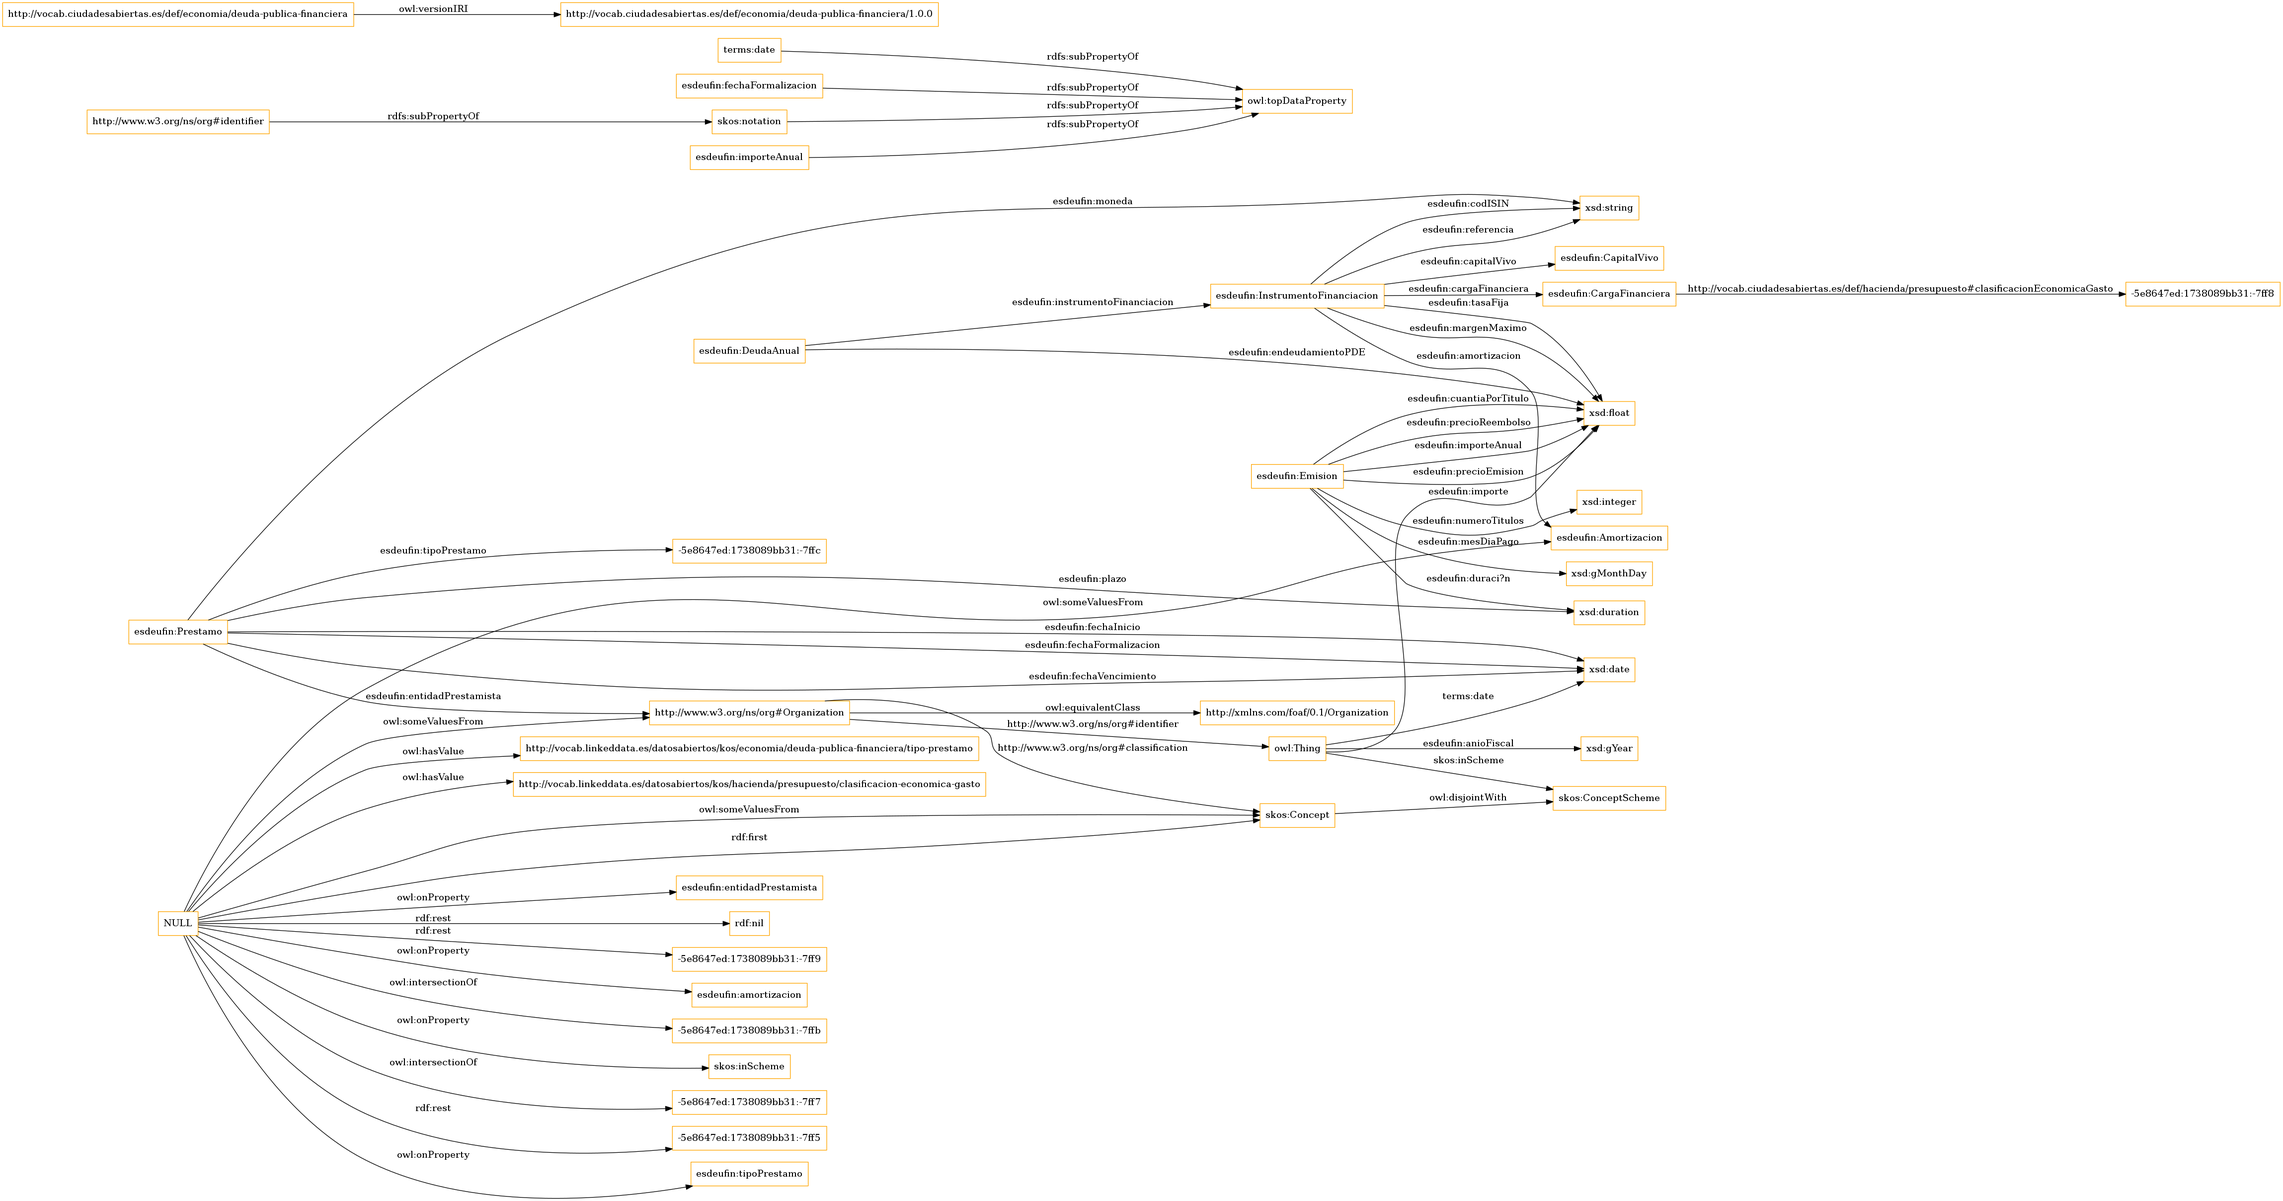
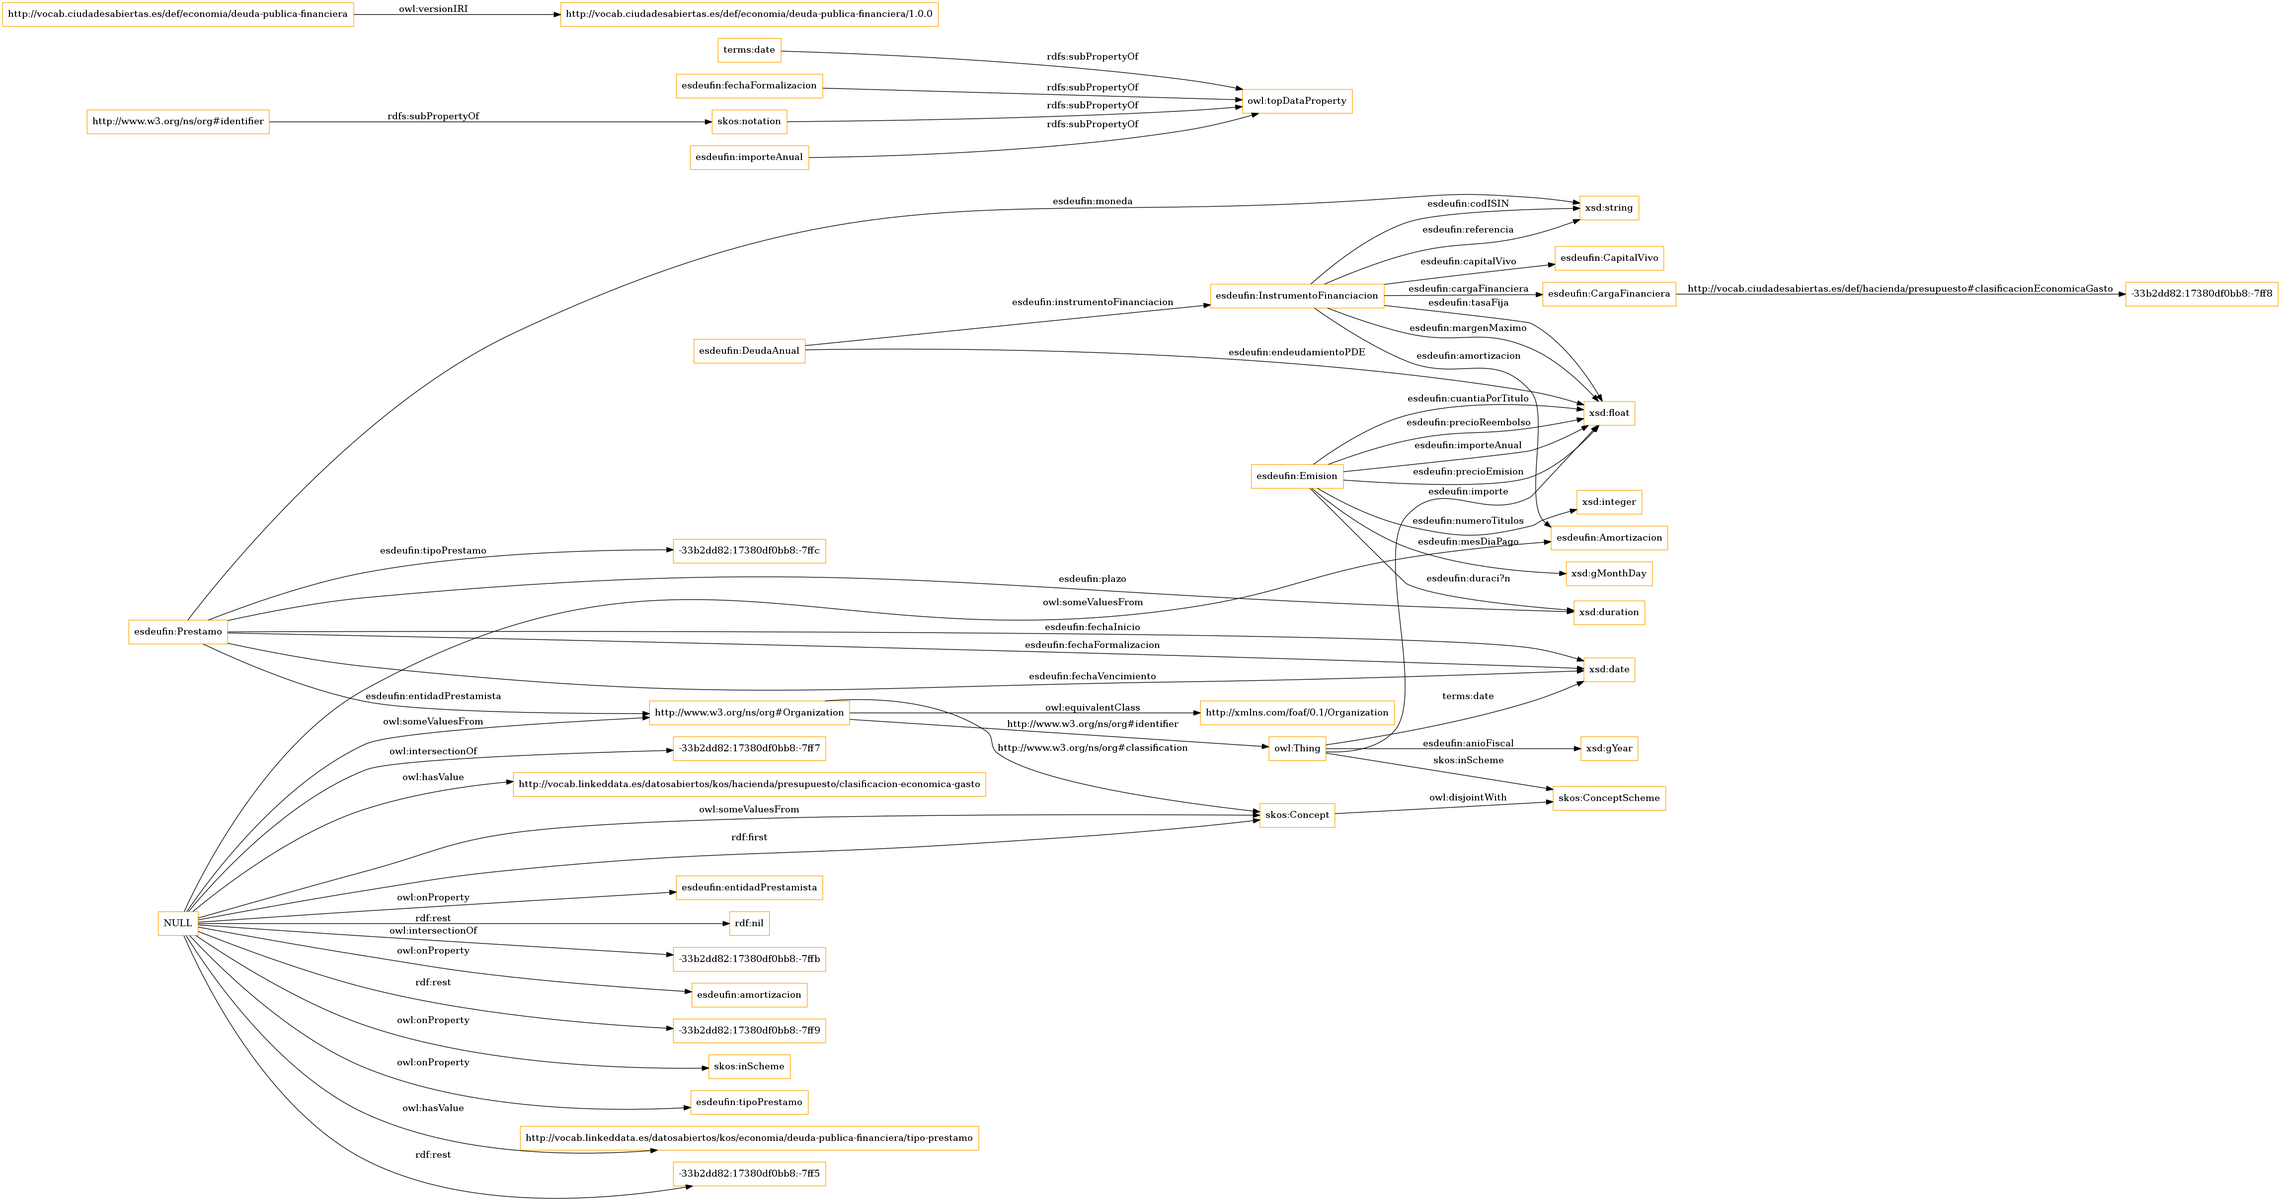
automated change

diff --git a/OnToology/ontology/deudaPublicaFinanciera.owl/documentation/sections/crossref-es.html b/OnToology/ontology/deudaPublicaFinanciera.owl/documentation/sections/crossref-es.html
@@ -1,8 +1,12 @@
-<h2 id="crossreference" class="list">T&eacute;rminos de Vocabulario para la representación de la información de la Deuda Pública Financiera de un ayuntamiento: clases, propiedades y propiedades de datos <span class="backlink"> volver a <a href="#toc">&iacute;ndice</a></span></h2>
+<h2 id="crossreference" class="list">T&eacute;rminos de Vocabulario para la representación de la información de la Deuda Pública Financiera tomando en cuenta que la deuda pública es uno de los indicadores esenciales de las cuentas públicas para entender el estado de la situación económica de un ayuntamiento. para clases, propiedades y propiedades de datos <span class="backlink"> volver a <a href="#toc">&iacute;ndice</a></span></h2>
 Esta secci&oacute;n introduce m&aacute;s detalles sobre cada clase y propiedad definida por Vocabulario para la representación de la información de la Deuda Pública Financiera tomando en cuenta que la deuda pública es uno de los indicadores esenciales de las cuentas públicas para entender el estado de la situación económica de un ayuntamiento..
 <div id="classes">
    <h3 id="classes-headline" class="list">Clases</h3>
    <ul class="hlist">
+      <li>
+         <a href="#Amortizacion"
+            title="http://vocab.ciudadesabiertas.es/def/economia/deuda-publica-financiera#Amortizacion">Amortización</a>
+      </li>
       <li>
          <a href="#CapitalVivo"
             title="http://vocab.ciudadesabiertas.es/def/economia/deuda-publica-financiera#CapitalVivo">Capital Vivo</a>
@@ -37,11 +41,30 @@ Esta secci&oacute;n introduce m&aacute;s detalles sobre cada clase y propiedad d
          <a href="#Prestamo"
             title="http://vocab.ciudadesabiertas.es/def/economia/deuda-publica-financiera#Prestamo">Préstamo</a>
       </li>
-      <li>
-         <a href="#Amortizacion"
-            title="http://vocab.ciudadesabiertas.es/def/economia/deuda-publica-financiera#Amortizacion">Repayment</a>
-      </li>
    </ul>
+   <div class="entity" id="Amortizacion">
+      <h3>Amortización<sup class="type-c" title="clase">c</sup>
+         <span class="backlink"> Volver a <a href="#toc">índice</a> o <a href="#classes">Índice de clases</a>
+         </span>
+      </h3>
+      <p>
+         <strong>IRI:</strong> http://vocab.ciudadesabiertas.es/def/economia/deuda-publica-financiera#Amortizacion</p>
+      <div class="comment">
+         <span class="markdown">Fecha e importe de amortización de la deuda que se recoge en el contrato firmado entre las partes</span>
+      </div>
+      <dl class="definedBy">
+         <dt>Definida por</dt>
+         <dd>http://vocab.ciudadesabiertas.es/def/economia/deuda-publica-financiera</dd>
+      </dl>
+      <dl class="description">
+         <dt>en rango de</dt>
+         <dd>
+            <a href="#amortizacion"
+               title="http://vocab.ciudadesabiertas.es/def/economia/deuda-publica-financiera#amortizacion">amortización</a>
+            <sup class="type-op" title="Propiedad entre objetos">op</sup>
+         </dd>
+      </dl>
+   </div>
    <div class="entity" id="CapitalVivo">
       <h3>Capital Vivo<sup class="type-c" title="clase">c</sup>
          <span class="backlink"> Volver a <a href="#toc">índice</a> o <a href="#classes">Índice de clases</a>
@@ -83,7 +106,7 @@ Esta secci&oacute;n introduce m&aacute;s detalles sobre cada clase y propiedad d
          <dt>en dominio de</dt>
          <dd>
             <a href="#http://vocab.ciudadesabiertas.es/def/hacienda/presupuesto#clasificacionEconomicaGasto"
-               title="http://vocab.ciudadesabiertas.es/def/hacienda/presupuesto#clasificacionEconomicaGasto">clasificacion economica gasto</a>
+               title="http://vocab.ciudadesabiertas.es/def/hacienda/presupuesto#clasificacionEconomicaGasto">clasificación económica gasto</a>
             <sup class="type-op" title="Propiedad entre objetos">op</sup>
          </dd>
          <dt>en rango de</dt>
@@ -372,29 +395,6 @@ Esta secci&oacute;n introduce m&aacute;s detalles sobre cada clase y propiedad d
          </dd>
       </dl>
    </div>
-   <div class="entity" id="Amortizacion">
-      <h3>Repayment<sup class="type-c" title="clase">c</sup>
-         <span class="backlink"> Volver a <a href="#toc">índice</a> o <a href="#classes">Índice de clases</a>
-         </span>
-      </h3>
-      <p>
-         <strong>IRI:</strong> http://vocab.ciudadesabiertas.es/def/economia/deuda-publica-financiera#Amortizacion</p>
-      <div class="comment">
-         <span class="markdown">Amortización</span>
-      </div>
-      <dl class="definedBy">
-         <dt>Definida por</dt>
-         <dd>http://vocab.ciudadesabiertas.es/def/economia/deuda-publica-financiera</dd>
-      </dl>
-      <dl class="description">
-         <dt>en rango de</dt>
-         <dd>
-            <a href="#amortizacion"
-               title="http://vocab.ciudadesabiertas.es/def/economia/deuda-publica-financiera#amortizacion">amortización</a>
-            <sup class="type-op" title="Propiedad entre objetos">op</sup>
-         </dd>
-      </dl>
-   </div>
 </div><div id="objectproperties">
    <h2>Propiedades entre objetos</h2>
    <ul class="hlist">
@@ -412,9 +412,7 @@ Esta secci&oacute;n introduce m&aacute;s detalles sobre cada clase y propiedad d
       </li>
       <li>
          <a href="#http://vocab.ciudadesabiertas.es/def/hacienda/presupuesto#clasificacionEconomicaGasto"
-            title="http://vocab.ciudadesabiertas.es/def/hacienda/presupuesto#clasificacionEconomicaGasto">
-            <span>clasificacion economica gasto</span>
-         </a>
+            title="http://vocab.ciudadesabiertas.es/def/hacienda/presupuesto#clasificacionEconomicaGasto">clasificación económica gasto</a>
       </li>
       <li>
          <a href="#entidadPrestamista"
@@ -460,7 +458,7 @@ Esta secci&oacute;n introduce m&aacute;s detalles sobre cada clase y propiedad d
             <dt>rango</dt>
             <dd>
                <a href="#Amortizacion"
-                  title="http://vocab.ciudadesabiertas.es/def/economia/deuda-publica-financiera#Amortizacion">Repayment</a>
+                  title="http://vocab.ciudadesabiertas.es/def/economia/deuda-publica-financiera#Amortizacion">Amortización</a>
                <sup class="type-c" title="clase">c</sup>
             </dd>
          </dl>
@@ -525,12 +523,19 @@ Esta secci&oacute;n introduce m&aacute;s detalles sobre cada clase y propiedad d
       </div>
    </div>
    <div class="entity" id="http://vocab.ciudadesabiertas.es/def/hacienda/presupuesto#clasificacionEconomicaGasto">
-      <h3>clasificacion economica gasto<sup class="type-op" title="Propiedad entre objetos">op</sup>
+      <h3>clasificación económica gasto<sup class="type-op" title="Propiedad entre objetos">op</sup>
          <span class="backlink"> Volver a <a href="#toc">índice</a> o <a href="#objectproperties">Índice de propiedades de objetos</a>
          </span>
       </h3>
       <p>
          <strong>IRI:</strong> http://vocab.ciudadesabiertas.es/def/hacienda/presupuesto#clasificacionEconomicaGasto</p>
+      <div class="comment">
+         <span class="markdown">Relaciona la carga financiera con los conceptos de pasivos financieros o gastos financieros de la clasificación económica de gasto del presupuesto.</span>
+      </div>
+      <dl class="definedBy">
+         <dt>Definida por</dt>
+         <dd>http://vocab.ciudadesabiertas.es/def/economia/deuda-publica-financiera</dd>
+      </dl>
       <div class="description">
          <p>
             <strong>tiene características:</strong> funcional</p>

diff --git a/OnToology/ontology/deudaPublicaFinanciera.owl/documentation/sections/crossref-en.html b/OnToology/ontology/deudaPublicaFinanciera.owl/documentation/sections/crossref-en.html
@@ -160,7 +160,7 @@ This section provides details for each class and property defined by Vocabulario
          <dt>is in domain of</dt>
          <dd>
             <a href="#http://vocab.ciudadesabiertas.es/def/hacienda/presupuesto#clasificacionEconomicaGasto"
-               title="http://vocab.ciudadesabiertas.es/def/hacienda/presupuesto#clasificacionEconomicaGasto">clasificacion economica gasto</a>
+               title="http://vocab.ciudadesabiertas.es/def/hacienda/presupuesto#clasificacionEconomicaGasto">economic expense classification</a>
             <sup class="type-op" title="object property">op</sup>
          </dd>
          <dt>is in range of</dt>
@@ -399,13 +399,11 @@ This section provides details for each class and property defined by Vocabulario
    <h3 id="properties" class="list">Object Properties</h3>
    <ul class="hlist">
       <li>
-         <a href="#http://vocab.ciudadesabiertas.es/def/hacienda/presupuesto#clasificacionEconomicaGasto"
-            title="http://vocab.ciudadesabiertas.es/def/hacienda/presupuesto#clasificacionEconomicaGasto">
-            <span>clasificacion economica gasto</span>
-         </a>
+         <a href="#http://www.w3.org/ns/org#classification" title="http://www.w3.org/ns/org#classification">classification</a>
       </li>
       <li>
-         <a href="#http://www.w3.org/ns/org#classification" title="http://www.w3.org/ns/org#classification">classification</a>
+         <a href="#http://vocab.ciudadesabiertas.es/def/hacienda/presupuesto#clasificacionEconomicaGasto"
+            title="http://vocab.ciudadesabiertas.es/def/hacienda/presupuesto#clasificacionEconomicaGasto">economic expense classification</a>
       </li>
       <li>
          <a href="#cargaFinanciera"
@@ -435,35 +433,6 @@ This section provides details for each class and property defined by Vocabulario
             title="http://vocab.ciudadesabiertas.es/def/economia/deuda-publica-financiera#amortizacion">repayment</a>
       </li>
    </ul>
-   <div class="entity" id="http://vocab.ciudadesabiertas.es/def/hacienda/presupuesto#clasificacionEconomicaGasto">
-      <h3>clasificacion economica gasto<sup class="type-op" title="object property">op</sup>
-         <span class="backlink"> back to <a href="#toc">ToC</a> or <a href="#objectproperties">Object Property ToC</a>
-         </span>
-      </h3>
-      <p>
-         <strong>IRI:</strong> http://vocab.ciudadesabiertas.es/def/hacienda/presupuesto#clasificacionEconomicaGasto</p>
-      <div class="description">
-         <p>
-            <strong>has characteristics:</strong> functional</p>
-         <dl>
-            <dt>has domain</dt>
-            <dd>
-               <a href="#CargaFinanciera"
-                  title="http://vocab.ciudadesabiertas.es/def/economia/deuda-publica-financiera#CargaFinanciera">Financial burden</a>
-               <sup class="type-c" title="class">c</sup>
-            </dd>
-            <dt>has range</dt>
-            <dd>
-               <a href="#http://www.w3.org/2004/02/skos/core#Concept" title="http://www.w3.org/2004/02/skos/core#Concept">Concept</a>
-               <sup class="type-c" title="class">c</sup> 
-               <span class="logic">and</span> (<a href="#http://www.w3.org/2004/02/skos/core#inScheme" title="http://www.w3.org/2004/02/skos/core#inScheme">is in scheme</a>
-               <sup class="type-op" title="object property">op</sup> 
-               <span class="logic">value</span> 
-               <a href="#http://vocab.linkeddata.es/datosabiertos/kos/hacienda/presupuesto/clasificacion-economica-gasto"
-                  title="http://vocab.linkeddata.es/datosabiertos/kos/hacienda/presupuesto/clasificacion-economica-gasto">clasificacion economica gasto</a>)</dd>
-         </dl>
-      </div>
-   </div>
    <div class="entity" id="http://www.w3.org/ns/org#classification">
       <h3>classification<sup class="type-op" title="object property">op</sup>
          <span class="backlink"> back to <a href="#toc">ToC</a> or <a href="#objectproperties">Object Property ToC</a>
@@ -492,6 +461,42 @@ This section provides details for each class and property defined by Vocabulario
                <a href="#http://www.w3.org/2004/02/skos/core#Concept" title="http://www.w3.org/2004/02/skos/core#Concept">Concept</a>
                <sup class="type-c" title="class">c</sup>
             </dd>
+         </dl>
+      </div>
+   </div>
+   <div class="entity" id="http://vocab.ciudadesabiertas.es/def/hacienda/presupuesto#clasificacionEconomicaGasto">
+      <h3>economic expense classification<sup class="type-op" title="object property">op</sup>
+         <span class="backlink"> back to <a href="#toc">ToC</a> or <a href="#objectproperties">Object Property ToC</a>
+         </span>
+      </h3>
+      <p>
+         <strong>IRI:</strong> http://vocab.ciudadesabiertas.es/def/hacienda/presupuesto#clasificacionEconomicaGasto</p>
+      <div class="comment">
+         <span class="markdown">It relates the financial burden to the concepts of financial liabilities or financial expenses of the economic expense classification of the budget.</span>
+      </div>
+      <dl class="definedBy">
+         <dt>Is defined by</dt>
+         <dd>http://vocab.ciudadesabiertas.es/def/economia/deuda-publica-financiera</dd>
+      </dl>
+      <div class="description">
+         <p>
+            <strong>has characteristics:</strong> functional</p>
+         <dl>
+            <dt>has domain</dt>
+            <dd>
+               <a href="#CargaFinanciera"
+                  title="http://vocab.ciudadesabiertas.es/def/economia/deuda-publica-financiera#CargaFinanciera">Financial burden</a>
+               <sup class="type-c" title="class">c</sup>
+            </dd>
+            <dt>has range</dt>
+            <dd>
+               <a href="#http://www.w3.org/2004/02/skos/core#Concept" title="http://www.w3.org/2004/02/skos/core#Concept">Concept</a>
+               <sup class="type-c" title="class">c</sup> 
+               <span class="logic">and</span> (<a href="#http://www.w3.org/2004/02/skos/core#inScheme" title="http://www.w3.org/2004/02/skos/core#inScheme">is in scheme</a>
+               <sup class="type-op" title="object property">op</sup> 
+               <span class="logic">value</span> 
+               <a href="#http://vocab.linkeddata.es/datosabiertos/kos/hacienda/presupuesto/clasificacion-economica-gasto"
+                  title="http://vocab.linkeddata.es/datosabiertos/kos/hacienda/presupuesto/clasificacion-economica-gasto">clasificacion economica gasto</a>)</dd>
          </dl>
       </div>
    </div>

diff --git a/OnToology/ontology/deudaPublicaFinanciera.owl/documentation/sections/overview-es.html b/OnToology/ontology/deudaPublicaFinanciera.owl/documentation/sections/overview-es.html
@@ -1,7 +1,11 @@
-<h2 id="overv" class="list">Vocabulario para la representación de la información de la Deuda Pública Financiera de un ayuntamiento: Resumen <span class="backlink"> volver a <a href="#toc">&iacute;ndice</a></span></h2>
+<h2 id="overv" class="list">Vocabulario para la representación de la información de la Deuda Pública Financiera tomando en cuenta que la deuda pública es uno de los indicadores esenciales de las cuentas públicas para entender el estado de la situación económica de un ayuntamiento.: Resumen <span class="backlink"> volver a <a href="#toc">&iacute;ndice</a></span></h2>
 <span class="markdown">La ontolog&iacute;a se compone de las siguientes clases y propiedades:</span>
 <h4>Clases</h4>
 <ul class="hlist">
+   <li>
+      <a href="#Amortizacion"
+         title="http://vocab.ciudadesabiertas.es/def/economia/deuda-publica-financiera#Amortizacion">Amortización</a>
+   </li>
    <li>
       <a href="#CapitalVivo"
          title="http://vocab.ciudadesabiertas.es/def/economia/deuda-publica-financiera#CapitalVivo">Capital Vivo</a>
@@ -36,10 +40,6 @@
       <a href="#Prestamo"
          title="http://vocab.ciudadesabiertas.es/def/economia/deuda-publica-financiera#Prestamo">Préstamo</a>
    </li>
-   <li>
-      <a href="#Amortizacion"
-         title="http://vocab.ciudadesabiertas.es/def/economia/deuda-publica-financiera#Amortizacion">Repayment</a>
-   </li>
 </ul><h4>Propiedades de objeto</h4><ul class="hlist">
    <li>
       <a href="#amortizacion"
@@ -55,9 +55,7 @@
    </li>
    <li>
       <a href="#http://vocab.ciudadesabiertas.es/def/hacienda/presupuesto#clasificacionEconomicaGasto"
-         title="http://vocab.ciudadesabiertas.es/def/hacienda/presupuesto#clasificacionEconomicaGasto">
-         <span>clasificacion economica gasto</span>
-      </a>
+         title="http://vocab.ciudadesabiertas.es/def/hacienda/presupuesto#clasificacionEconomicaGasto">clasificación económica gasto</a>
    </li>
    <li>
       <a href="#entidadPrestamista"

diff --git a/OnToology/ontology/deudaPublicaFinanciera.owl/documentation/sections/overview-en.html b/OnToology/ontology/deudaPublicaFinanciera.owl/documentation/sections/overview-en.html
@@ -43,13 +43,11 @@ This ontology has the following classes and properties.</span>
    </li>
 </ul><h4>Object Properties</h4><ul class="hlist">
    <li>
-      <a href="#http://vocab.ciudadesabiertas.es/def/hacienda/presupuesto#clasificacionEconomicaGasto"
-         title="http://vocab.ciudadesabiertas.es/def/hacienda/presupuesto#clasificacionEconomicaGasto">
-         <span>clasificacion economica gasto</span>
-      </a>
+      <a href="#http://www.w3.org/ns/org#classification" title="http://www.w3.org/ns/org#classification">classification</a>
    </li>
    <li>
-      <a href="#http://www.w3.org/ns/org#classification" title="http://www.w3.org/ns/org#classification">classification</a>
+      <a href="#http://vocab.ciudadesabiertas.es/def/hacienda/presupuesto#clasificacionEconomicaGasto"
+         title="http://vocab.ciudadesabiertas.es/def/hacienda/presupuesto#clasificacionEconomicaGasto">economic expense classification</a>
    </li>
    <li>
       <a href="#cargaFinanciera"
